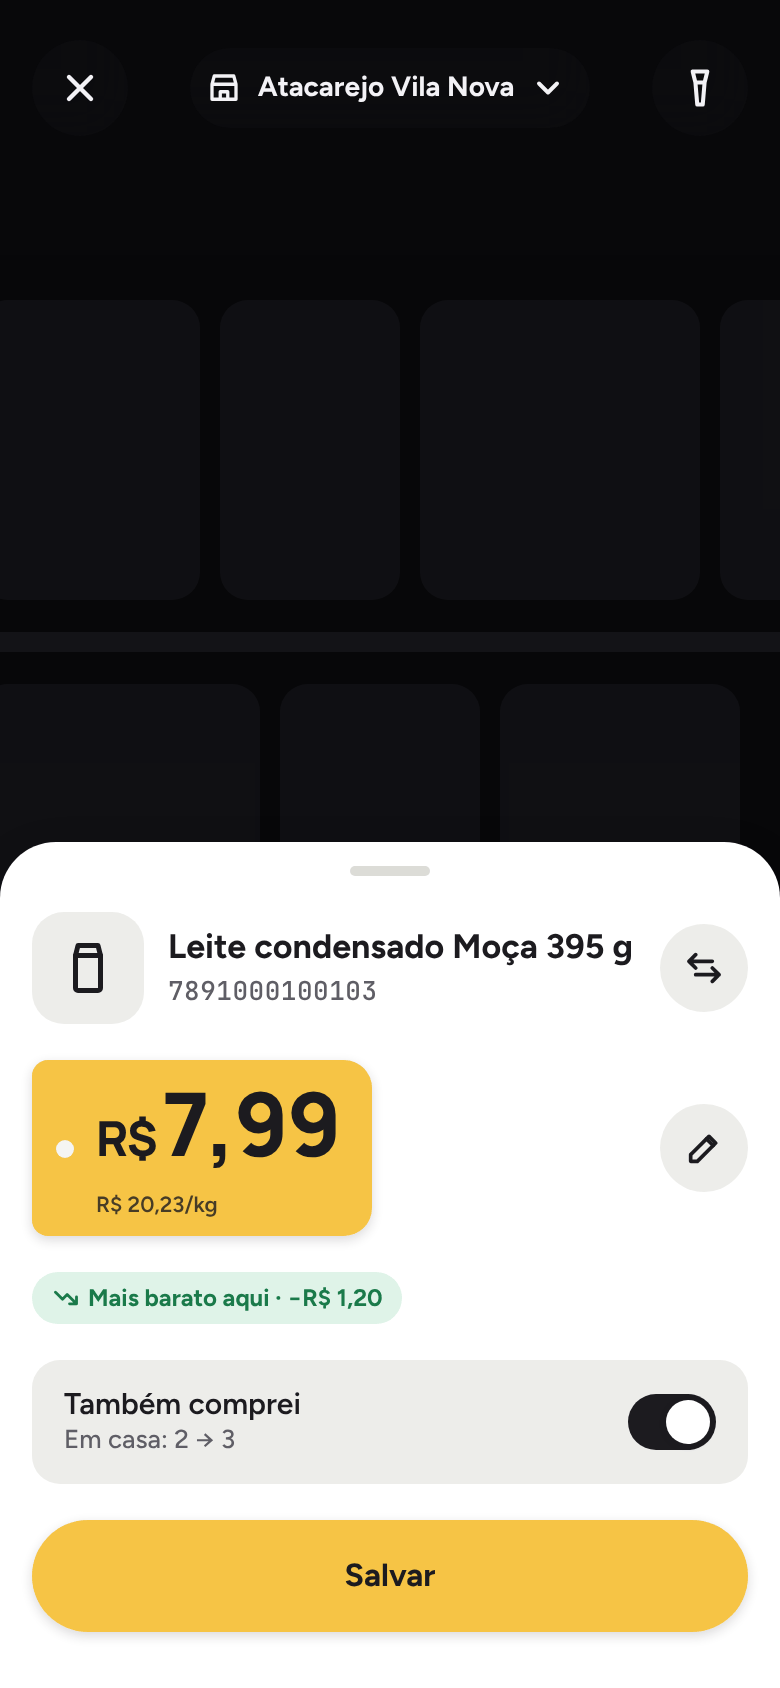
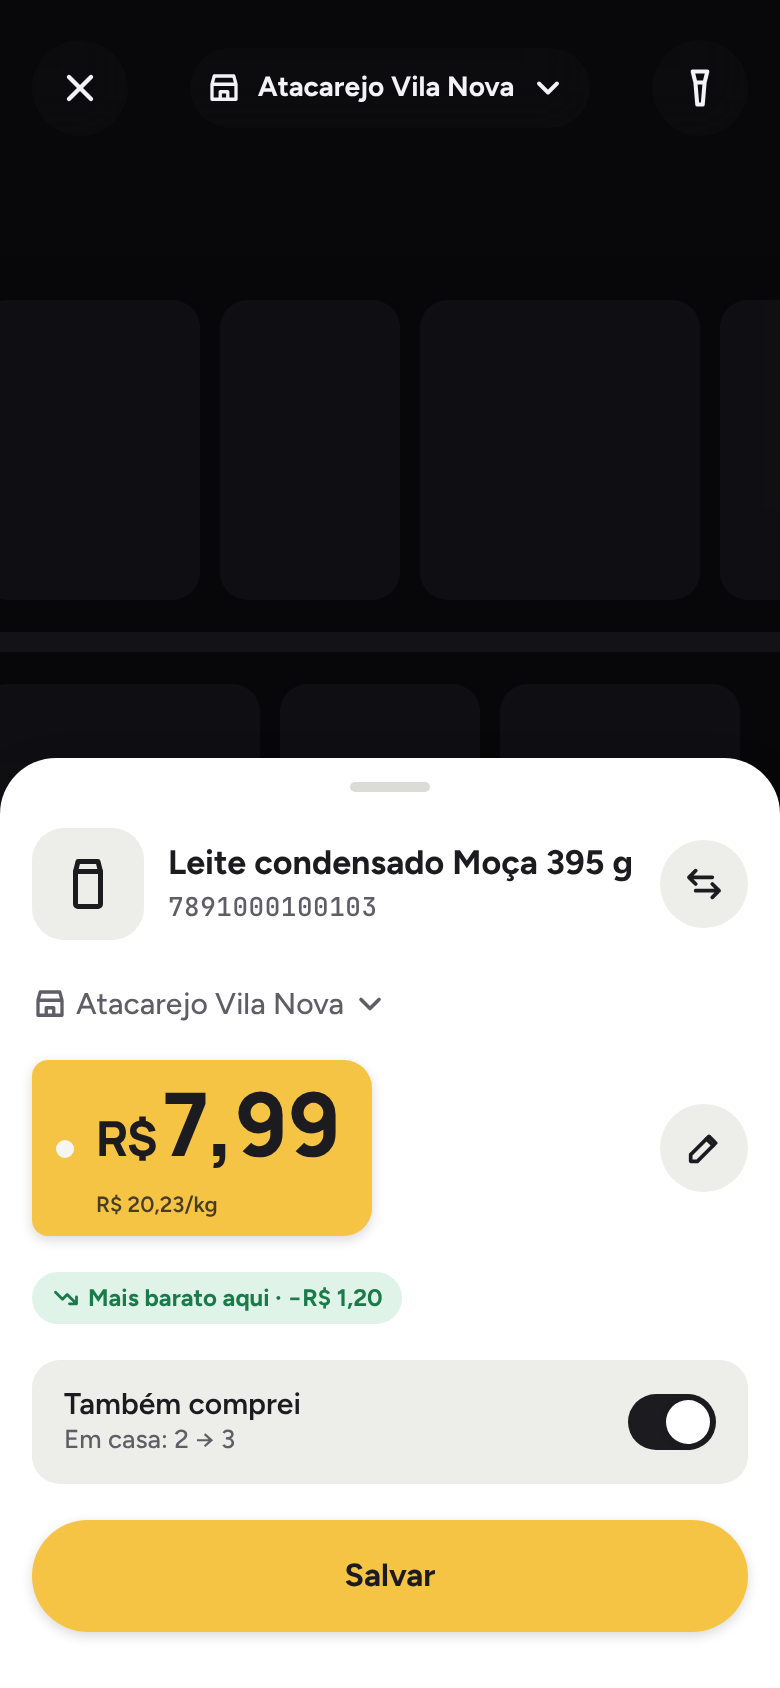
docs(design): mostra o mercado na folha conferir e salvar
Claude-Session: https://claude.ai/code/session_01XoR8k38DG85jdEd8v6SSEa

Changed region(s): [[0.0, 0.4313, 1.0, 0.6161]]

diff --git a/docs/design/prototipo/fonte/Confirmacao.dc.html b/docs/design/prototipo/fonte/Confirmacao.dc.html
@@ -55,6 +55,8 @@ a{color:#1C1B22}a:hover{color:#B00E28}
 .stock-row{display:grid;grid-template-columns:minmax(0,1fr) auto;align-items:center;gap:12px;padding:12px 16px;border-radius:var(--radius-md);background:var(--surface-sunken);font:600 15px/20px var(--font-body)}
 .stock-row small{display:block;font:500 13px/18px var(--font-body);color:var(--ink-muted)}
 .sheet .bipa-btn{width:100%;height:56px;font-size:16px}
+.market-line{margin-top:-10px;justify-self:start;display:flex;align-items:center;gap:4px;min-height:48px;margin-bottom:-14px;font:500 15px/20px var(--font-body);color:var(--ink-muted);text-decoration:none}
+.market-line svg{width:18px;height:18px;flex:none}
 
 </style>
 </helmet>
@@ -73,6 +75,7 @@ a{color:#1C1B22}a:hover{color:#B00E28}
       <div class="prod-name">Leite condensado Moça 395&nbsp;g<span>7891000100103</span></div>
       <button class="icon-btn" type="button" aria-label="Trocar o produto"><svg viewBox="0 0 24 24" fill="none" stroke="currentColor" stroke-width="2.2" stroke-linecap="round" stroke-linejoin="round" aria-hidden="true"><path d="M7 4L3 8l4 4M3 8h14M17 20l4-4-4-4M21 16H7"/></svg></button>
     </div>
+    <a class="market-line" href="Mercados.dc.html" aria-label="Mercado: Atacarejo Vila Nova. Trocar"><svg viewBox="0 0 24 24" fill="none" stroke="currentColor" stroke-width="2.2" stroke-linecap="round" stroke-linejoin="round" aria-hidden="true"><path d="M4 9.5L5.5 4h13L20 9.5M4 9.5h16M4 9.5v10h16v-10M9.5 19.5v-5h5v5"/></svg>Atacarejo Vila Nova<svg viewBox="0 0 24 24" fill="none" stroke="currentColor" stroke-width="2.4" stroke-linecap="round" stroke-linejoin="round" aria-hidden="true"><path d="M6 9l6 6 6-6"/></svg></a>
     <div class="price-row">
       <div class="bipa-tag bipa-tag--hero">
         <span class="bipa-tag__value"><small>R$</small>7,99</span>

diff --git a/docs/design/prototipo/README.md b/docs/design/prototipo/README.md
@@ -11,7 +11,7 @@ Cada tela tem uma imagem (390 px de largura, em 2x) e o HTML de origem em [`font
 | **Início**: busca com bipar, a lista (miniaturas, total estimado e "Ir às compras"), locais como categorias, carrossel de insights, prateleira de "Acabando" e lista "Em casa" com o medidor de nível. | [Main.png](telas/Main.png) | Feita, sem os insights |
 | **Menu do bipar**: o toque longo no botão de bipar abre Modo carrinho, Guardar em casa, Dar baixa em casa e Ler cupom fiscal. | [MenuBipar.png](telas/MenuBipar.png) | Feita, sem "Ler cupom fiscal". "Guardar em casa" aguarda revisão |
 | **Captura**: a câmera abre direto, com o mercado no topo, a moldura de leitura, o seletor Etiqueta · Código · Cupom, o disparo, "digitar o preço" e o modo carrinho. | [Captura.png](telas/Captura.png) | Feita: a câmera lê ao vivo, como o carrinho, e ainda não tem o modo Cupom; o disparo fotografa a etiqueta no formulário antigo |
-| **Confirmação**: folha para conferir e salvar, com o produto, o preço em destaque, o lápis para corrigir, "Mais barato aqui" e "Também comprei", que soma ao estoque. | [Confirmacao.png](telas/Confirmacao.png) | Feita |
+| **Confirmação**: folha para conferir e salvar, com o produto, o mercado (tocar troca), o preço em destaque, o lápis para corrigir, "Mais barato aqui" e "Também comprei", que soma ao estoque. | [Confirmacao.png](telas/Confirmacao.png) | Feita. A linha do mercado aguarda revisão |
 | **Modo carrinho**: leitura contínua, com a bandeja do que você vai levar, o total e "Terminei". | [ModoCarrinho.png](telas/ModoCarrinho.png) | Feita |
 | **Modo carrinho, preço lido ao vivo**: a etiqueta dentro da moldura é lida sem fotografar. A moldura trava, o chip mostra o preço e o item que o recebeu, e o preço do item na bandeja muda. O chip some sozinho. | [ModoCarrinhoLido.png](telas/ModoCarrinhoLido.png) | Feita (ADR 0012) |
 | **Modo carrinho, preço esperando o produto**: o preço lido antes de bipar espera o próximo produto por alguns segundos. | [ModoCarrinhoEsperando.png](telas/ModoCarrinhoEsperando.png) | Feita (ADR 0012) |
